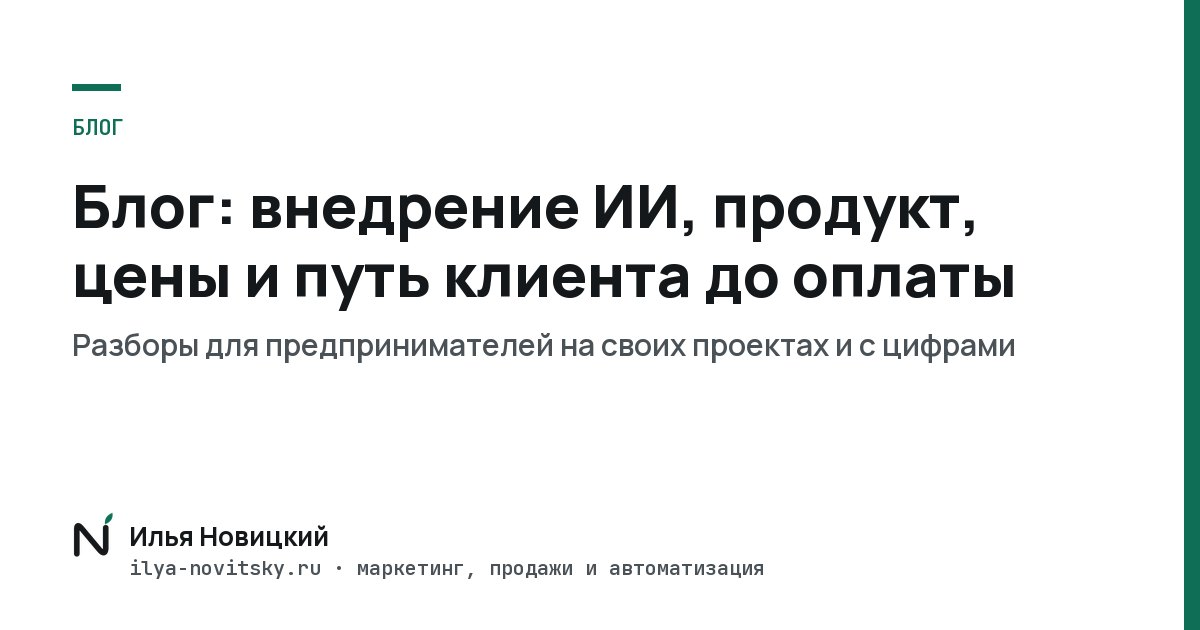
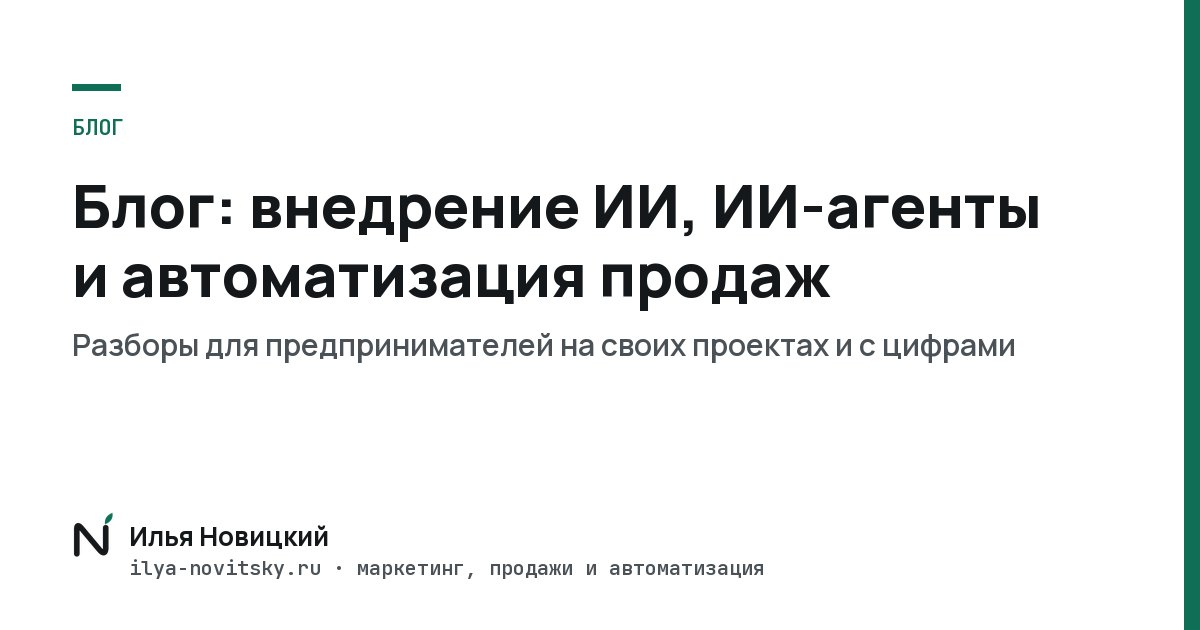
Блог: проверка фактов (убраны неподтверждённые утверждения), заголовок блога (#217)

Changed region(s): [[0.4625, 0.4222, 0.8633, 0.4825], [0.0617, 0.4222, 0.4317, 0.4825], [0.5858, 0.2714, 0.8633, 0.3921]]

diff --git a/content/pages/blog.ts b/content/pages/blog.ts
@@ -9,7 +9,7 @@ const TG = "https://t.me/Ilya_novator";
 
 export const blog = typo({
 	meta: {
-		title: "Блог: внедрение ИИ, продукт, цены и путь клиента до оплаты",
+		title: "Блог: внедрение ИИ, ИИ-агенты и автоматизация продаж",
 		description: "Статьи о внедрении ИИ в бизнес: как создать ИИ-агента, что отдать ИИ-сотруднику, автоматизация продаж и бизнес-процессов, запуск продукта. На своих проектах и цифрах.",
 	},
 	hero: {

diff --git a/content/blog/ii-v-prodazhah.md b/content/blog/ii-v-prodazhah.md
@@ -19,7 +19,7 @@ cover: "ИИ в продажах"
 
 [[viz:chat]]
 
-**Напоминания.** Пробное занятие, визит, конец абонемента, клиент, который давно не покупал. Это скучная работа, которую люди честно забывают делать, когда заявок много. В том же примере аудита 25 из 70 записавшихся не пришли на пробное, потому что им никто не напомнил.
+**Напоминания.** Пробное занятие, визит, конец абонемента, клиент, который давно не покупал. Это скучная работа, которую люди честно забывают делать, когда заявок много. В том же примере аудита 25 из 70 записавшихся не пришли на пробное, а напоминаний им никто не отправлял.
 
 **Разбор переписки и звонков.** Менеджеру некогда перечитывать сотни диалогов и искать, на каком шаге уходят клиенты. Агент делает это за часы. Так мои агенты разобрали больше 4 100 сделок в CRM моего агентства.
 
@@ -39,7 +39,7 @@ cover: "ИИ в продажах"
 
 Есть ниши, где клиент думает не дни, а месяцы. У нас был проект со строительством беседок, где люди легко уходили по дороге, пока решали.
 
-Мы собрали путь, который ведёт человека всё это время без участия менеджера: продающий квиз, переход в бота и Telegram-канал, прогрев в боте, цепочку писем и два этапа продаж в CRM. Продажи вели менеджеры клиента, а наша часть была в том, чтобы к ним приходили уже прогретые люди. Итог: плюс 3% к продажам из тех же заявок, без увеличения рекламы.
+Мы собрали путь, который ведёт человека всё это время без участия менеджера: продающий квиз, переход в бота и Telegram-канал, прогрев в боте, цепочку писем и два этапа продаж в CRM. Продажи вели менеджеры клиента, а наша часть была в том, чтобы к ним приходили уже прогретые люди. Итог: плюс 3% к продажам из тех же заявок.
 
 Три процента звучат скромно, но в нише с дорогим чеком это ощутимые деньги, и они пришли из заявок, за которые уже заплатили.
 

diff --git a/content/blog/kak-sozdat-ii-agenta.md b/content/blog/kak-sozdat-ii-agenta.md
@@ -80,7 +80,7 @@ cover: "Как создать своего ИИ-агента"
 ## Вопросы
 
 **Нужно ли уметь программировать, чтобы создать ИИ-агента?**  
-Нет. Роль, знания и правила пишутся обычным языком, а техническую часть можно пройти по инструкции шаг за шагом. Я сам не программист, и с апреля 2026 года собрал так четыре продукта.
+Нет. Роль, знания и правила пишутся обычным языком, а техническую часть можно пройти по инструкции шаг за шагом. Я сам не программист и свои продукты собираю именно так.
 
 **Чем ИИ-агент отличается от чат-бота?**  
 Чат-бот отвечает по заранее заданному сценарию. ИИ-агент получает задачу, сам решает, какие шаги нужны, и может передать часть работы другим агентам.
